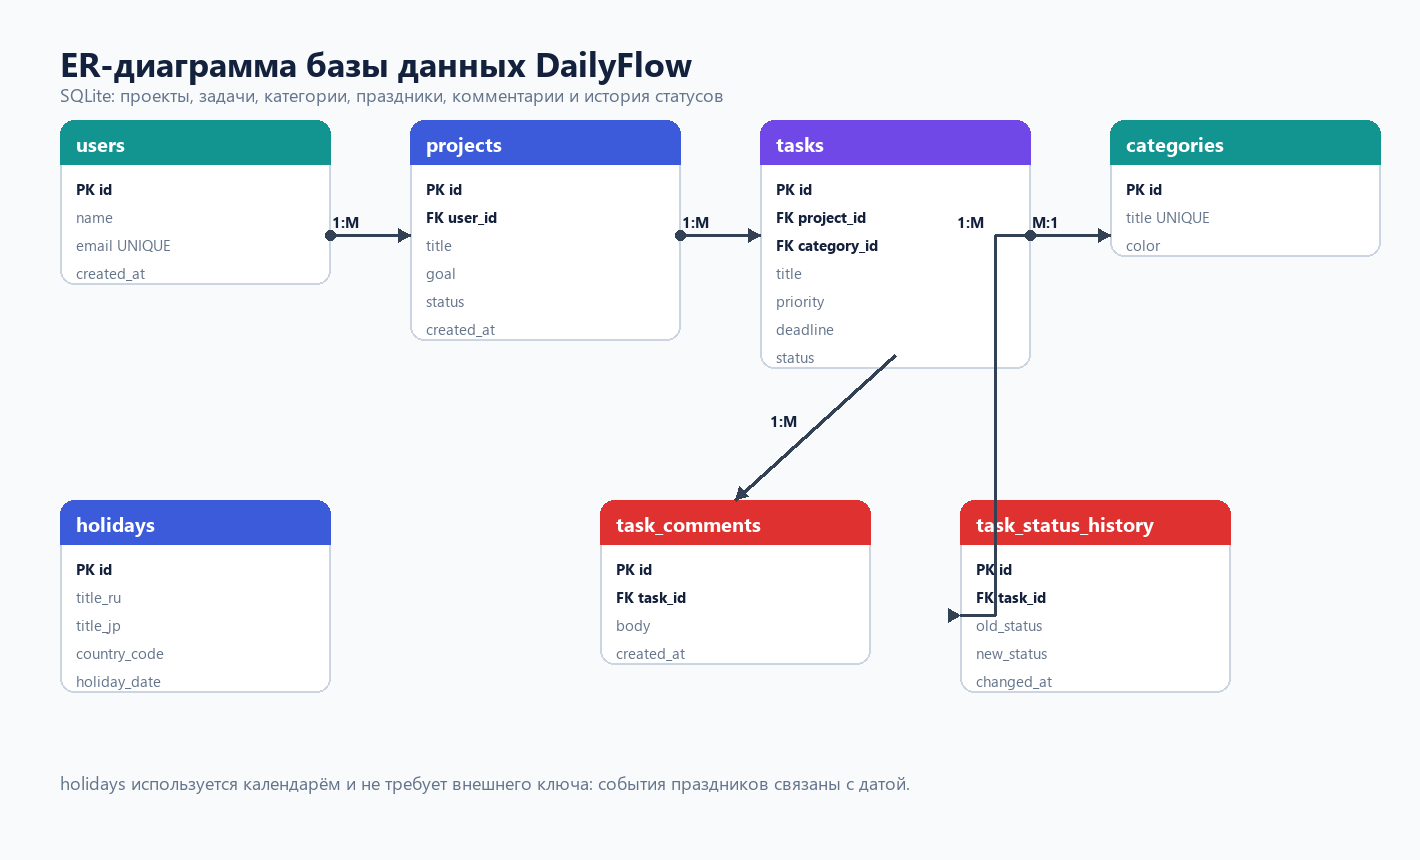
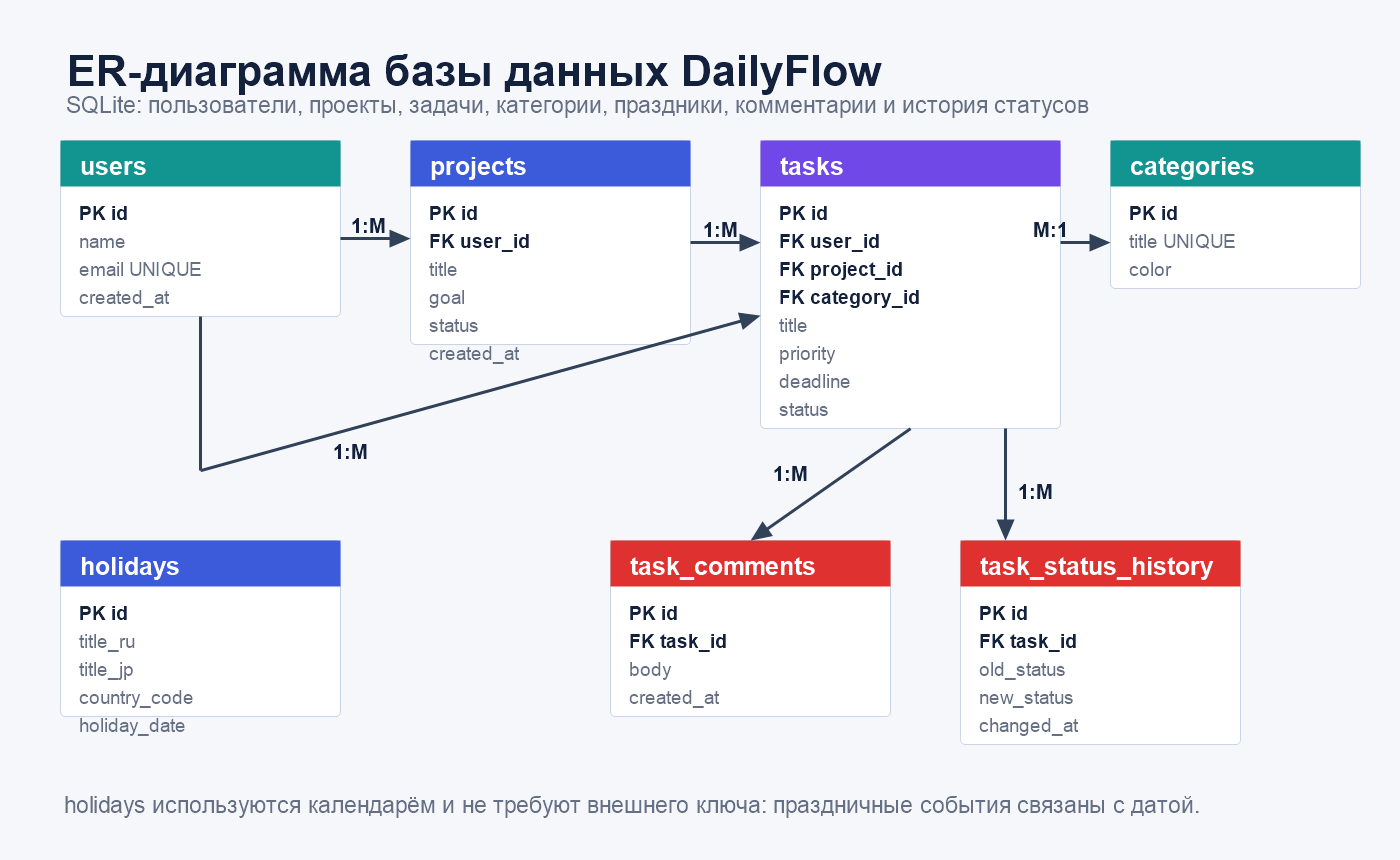
Database

diff --git a/database/verify_up11.py b/database/verify_up11.py
@@ -21,7 +21,7 @@ def split_sql(sql):
     for line in sql.splitlines():
         stripped = line.strip()
 
-        if not stripped or stripped.startswith("--") or stripped.startswith("PRAGMA"):
+        if not stripped or stripped.startswith("PRAGMA"):
             continue
 
         buffer.append(line)

diff --git a/docs/up11-database-report.md b/docs/up11-database-report.md
@@ -47,6 +47,7 @@ FK: `user_id` -> `users(id)`
 Хранит задачи DailyFlow.
 
 - `id` INTEGER PRIMARY KEY AUTOINCREMENT
+- `user_id` INTEGER NOT NULL
 - `project_id` INTEGER
 - `category_id` INTEGER NOT NULL
 - `title` TEXT NOT NULL
@@ -58,9 +59,10 @@ FK: `user_id` -> `users(id)`
 - `completed_at` TEXT
 
 PK: `id`  
+FK: `user_id` -> `users(id)`  
 FK: `project_id` -> `projects(id)`  
 FK: `category_id` -> `categories(id)`  
-Связи: `projects 1:M tasks`, `categories 1:M tasks`.
+Связи: `users 1:M tasks`, `projects 1:M tasks`, `categories 1:M tasks`.
 
 ### holidays
 
@@ -105,6 +107,7 @@ FK: `task_id` -> `tasks(id)`
 ## Связи между таблицами
 
 - `users 1:M projects` - один пользователь создаёт несколько проектов.
+- `users 1:M tasks` - один пользователь может иметь несколько задач, включая задачи без проекта.
 - `projects 1:M tasks` - один проект содержит несколько задач.
 - `categories 1:M tasks` - одна категория может быть назначена нескольким задачам.
 - `tasks 1:M task_comments` - у одной задачи может быть несколько комментариев.

diff --git a/README.md b/README.md
@@ -58,12 +58,21 @@ DailyFlow/
 │   └── app.js
 ├── docs/
 │   ├── report.md
+│   ├── up11-database-report.md
+│   ├── er-diagram.png
 │   ├── use-case.png
 │   └── screenshots/
 │       ├── home.png
 │       ├── tasks.png
 │       ├── calendar.png
 │       └── analytics.png
+├── database/
+│   ├── schema.sql
+│   ├── seed.sql
+│   ├── queries.sql
+│   ├── verify_up11.py
+│   ├── verification_output.txt
+│   └── dailyflow_up11.sqlite
 └── README.md
 ```
 
